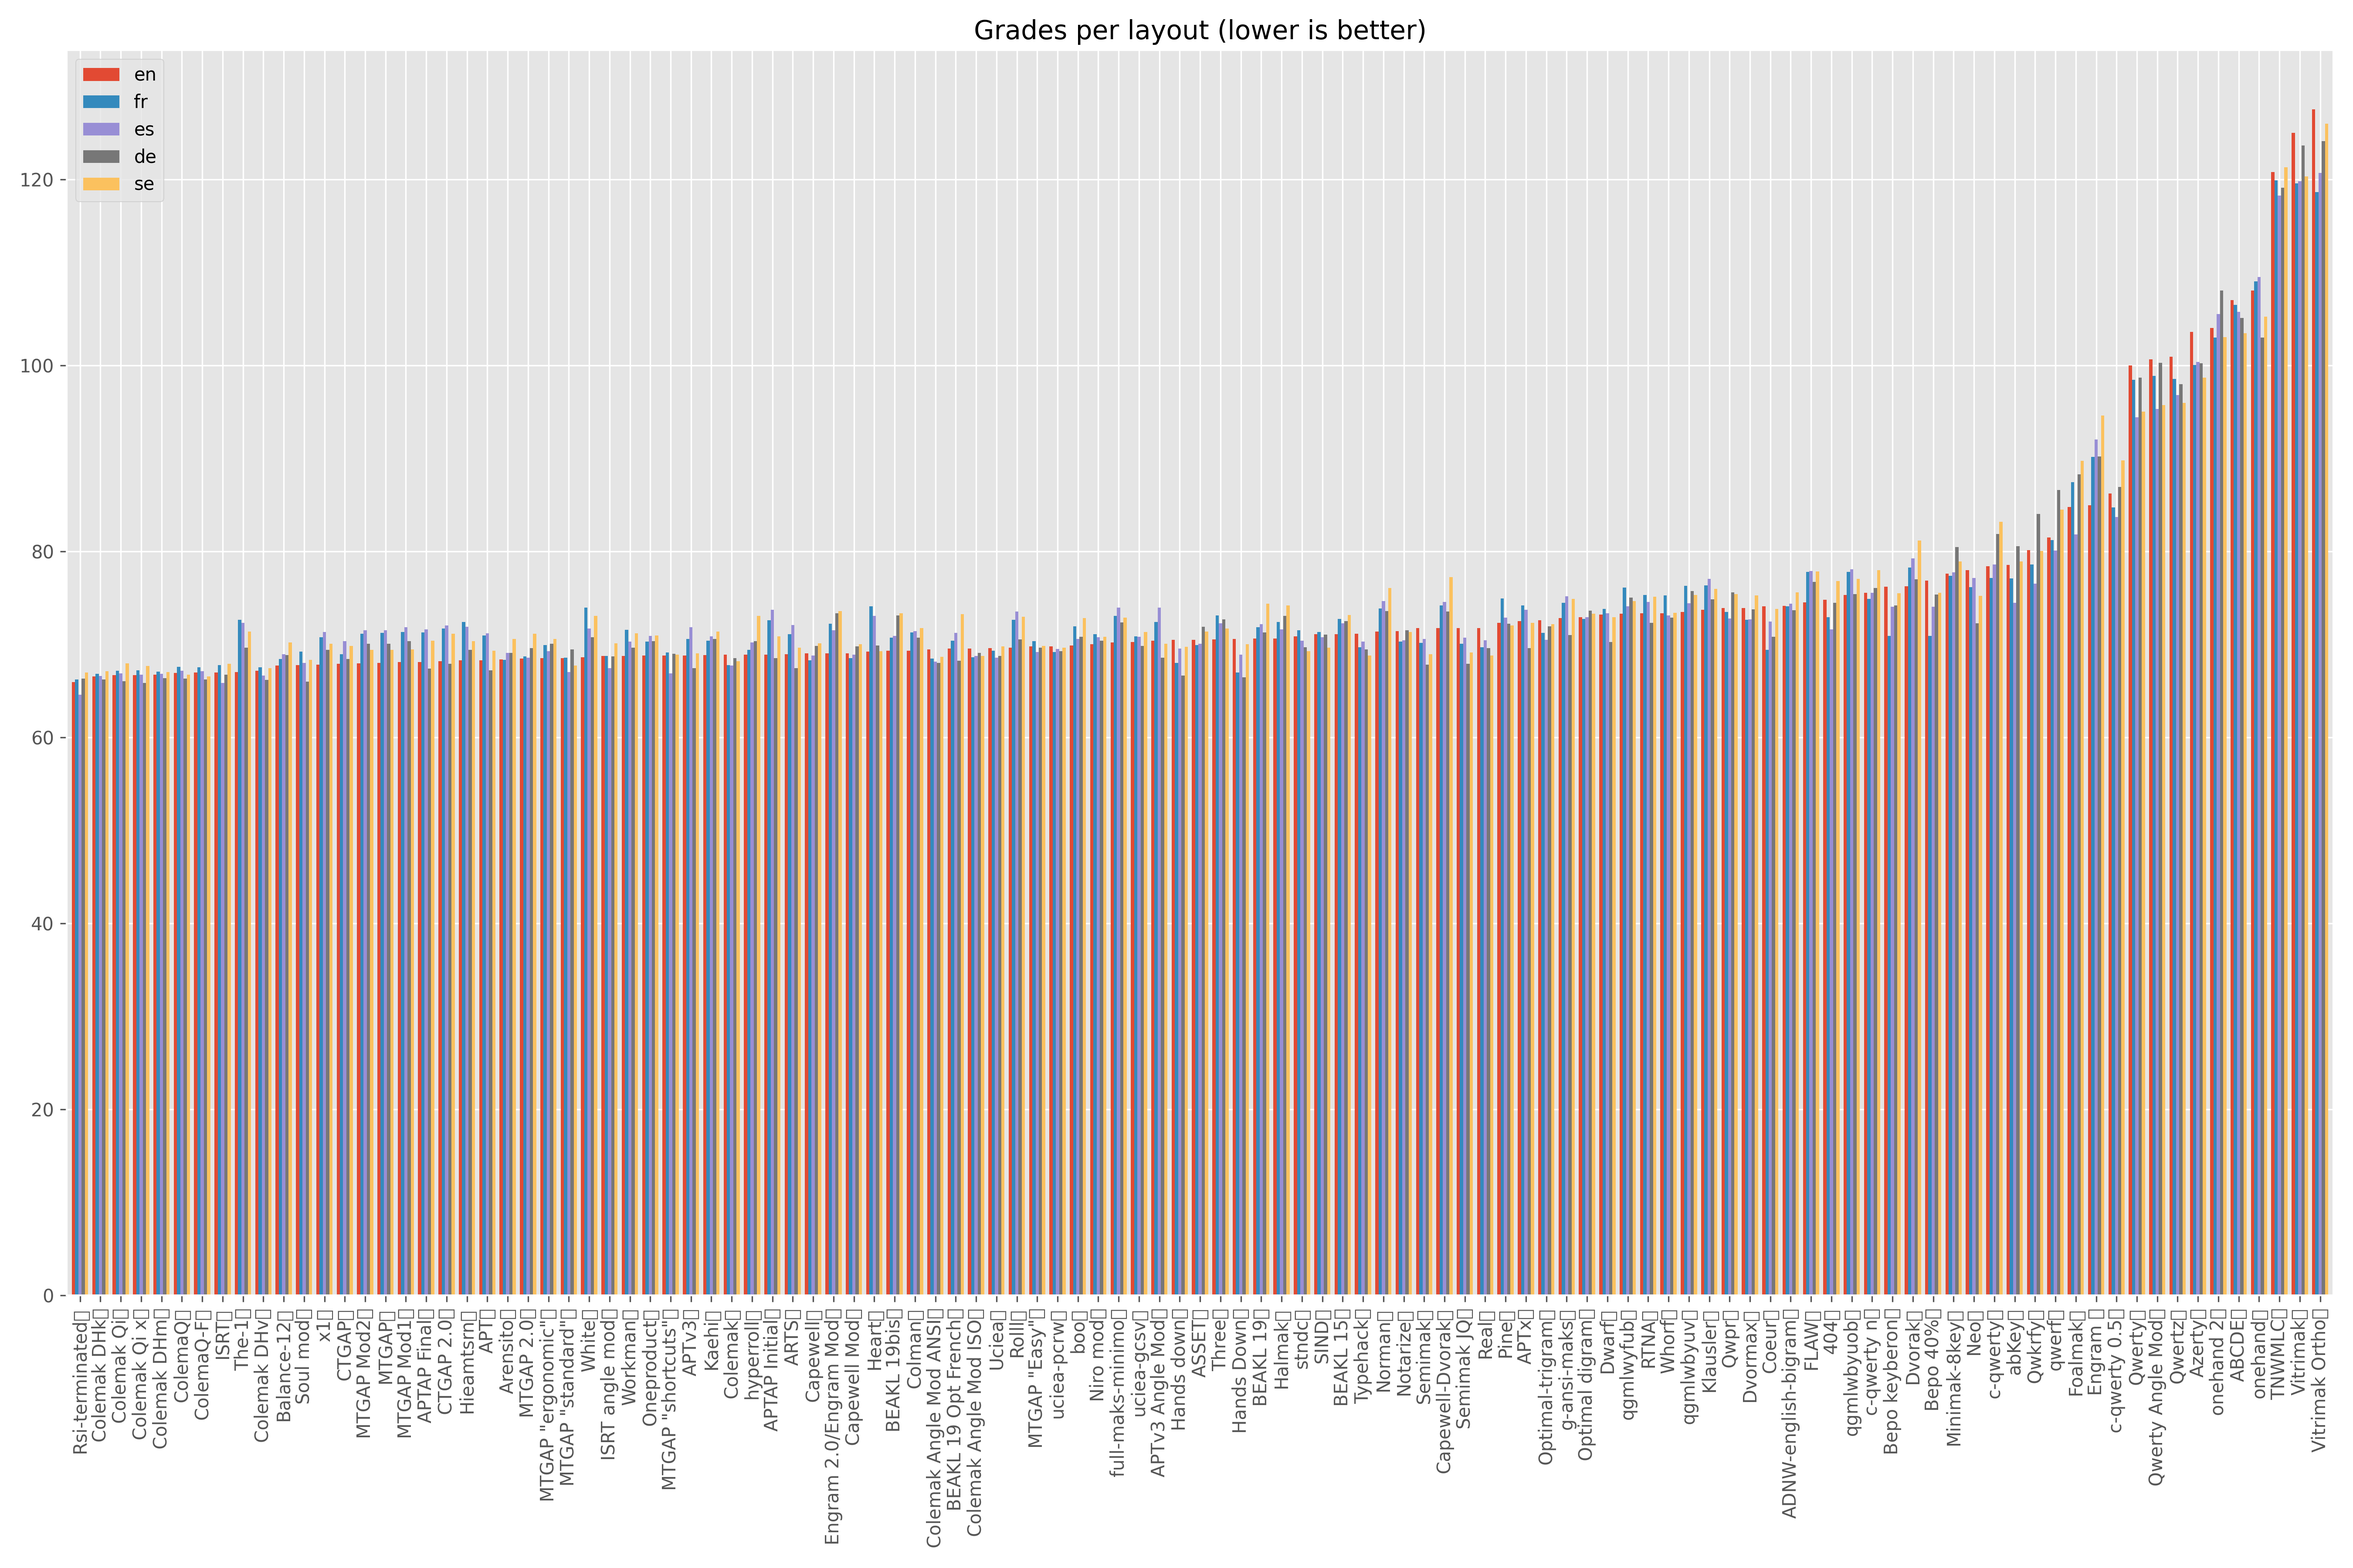
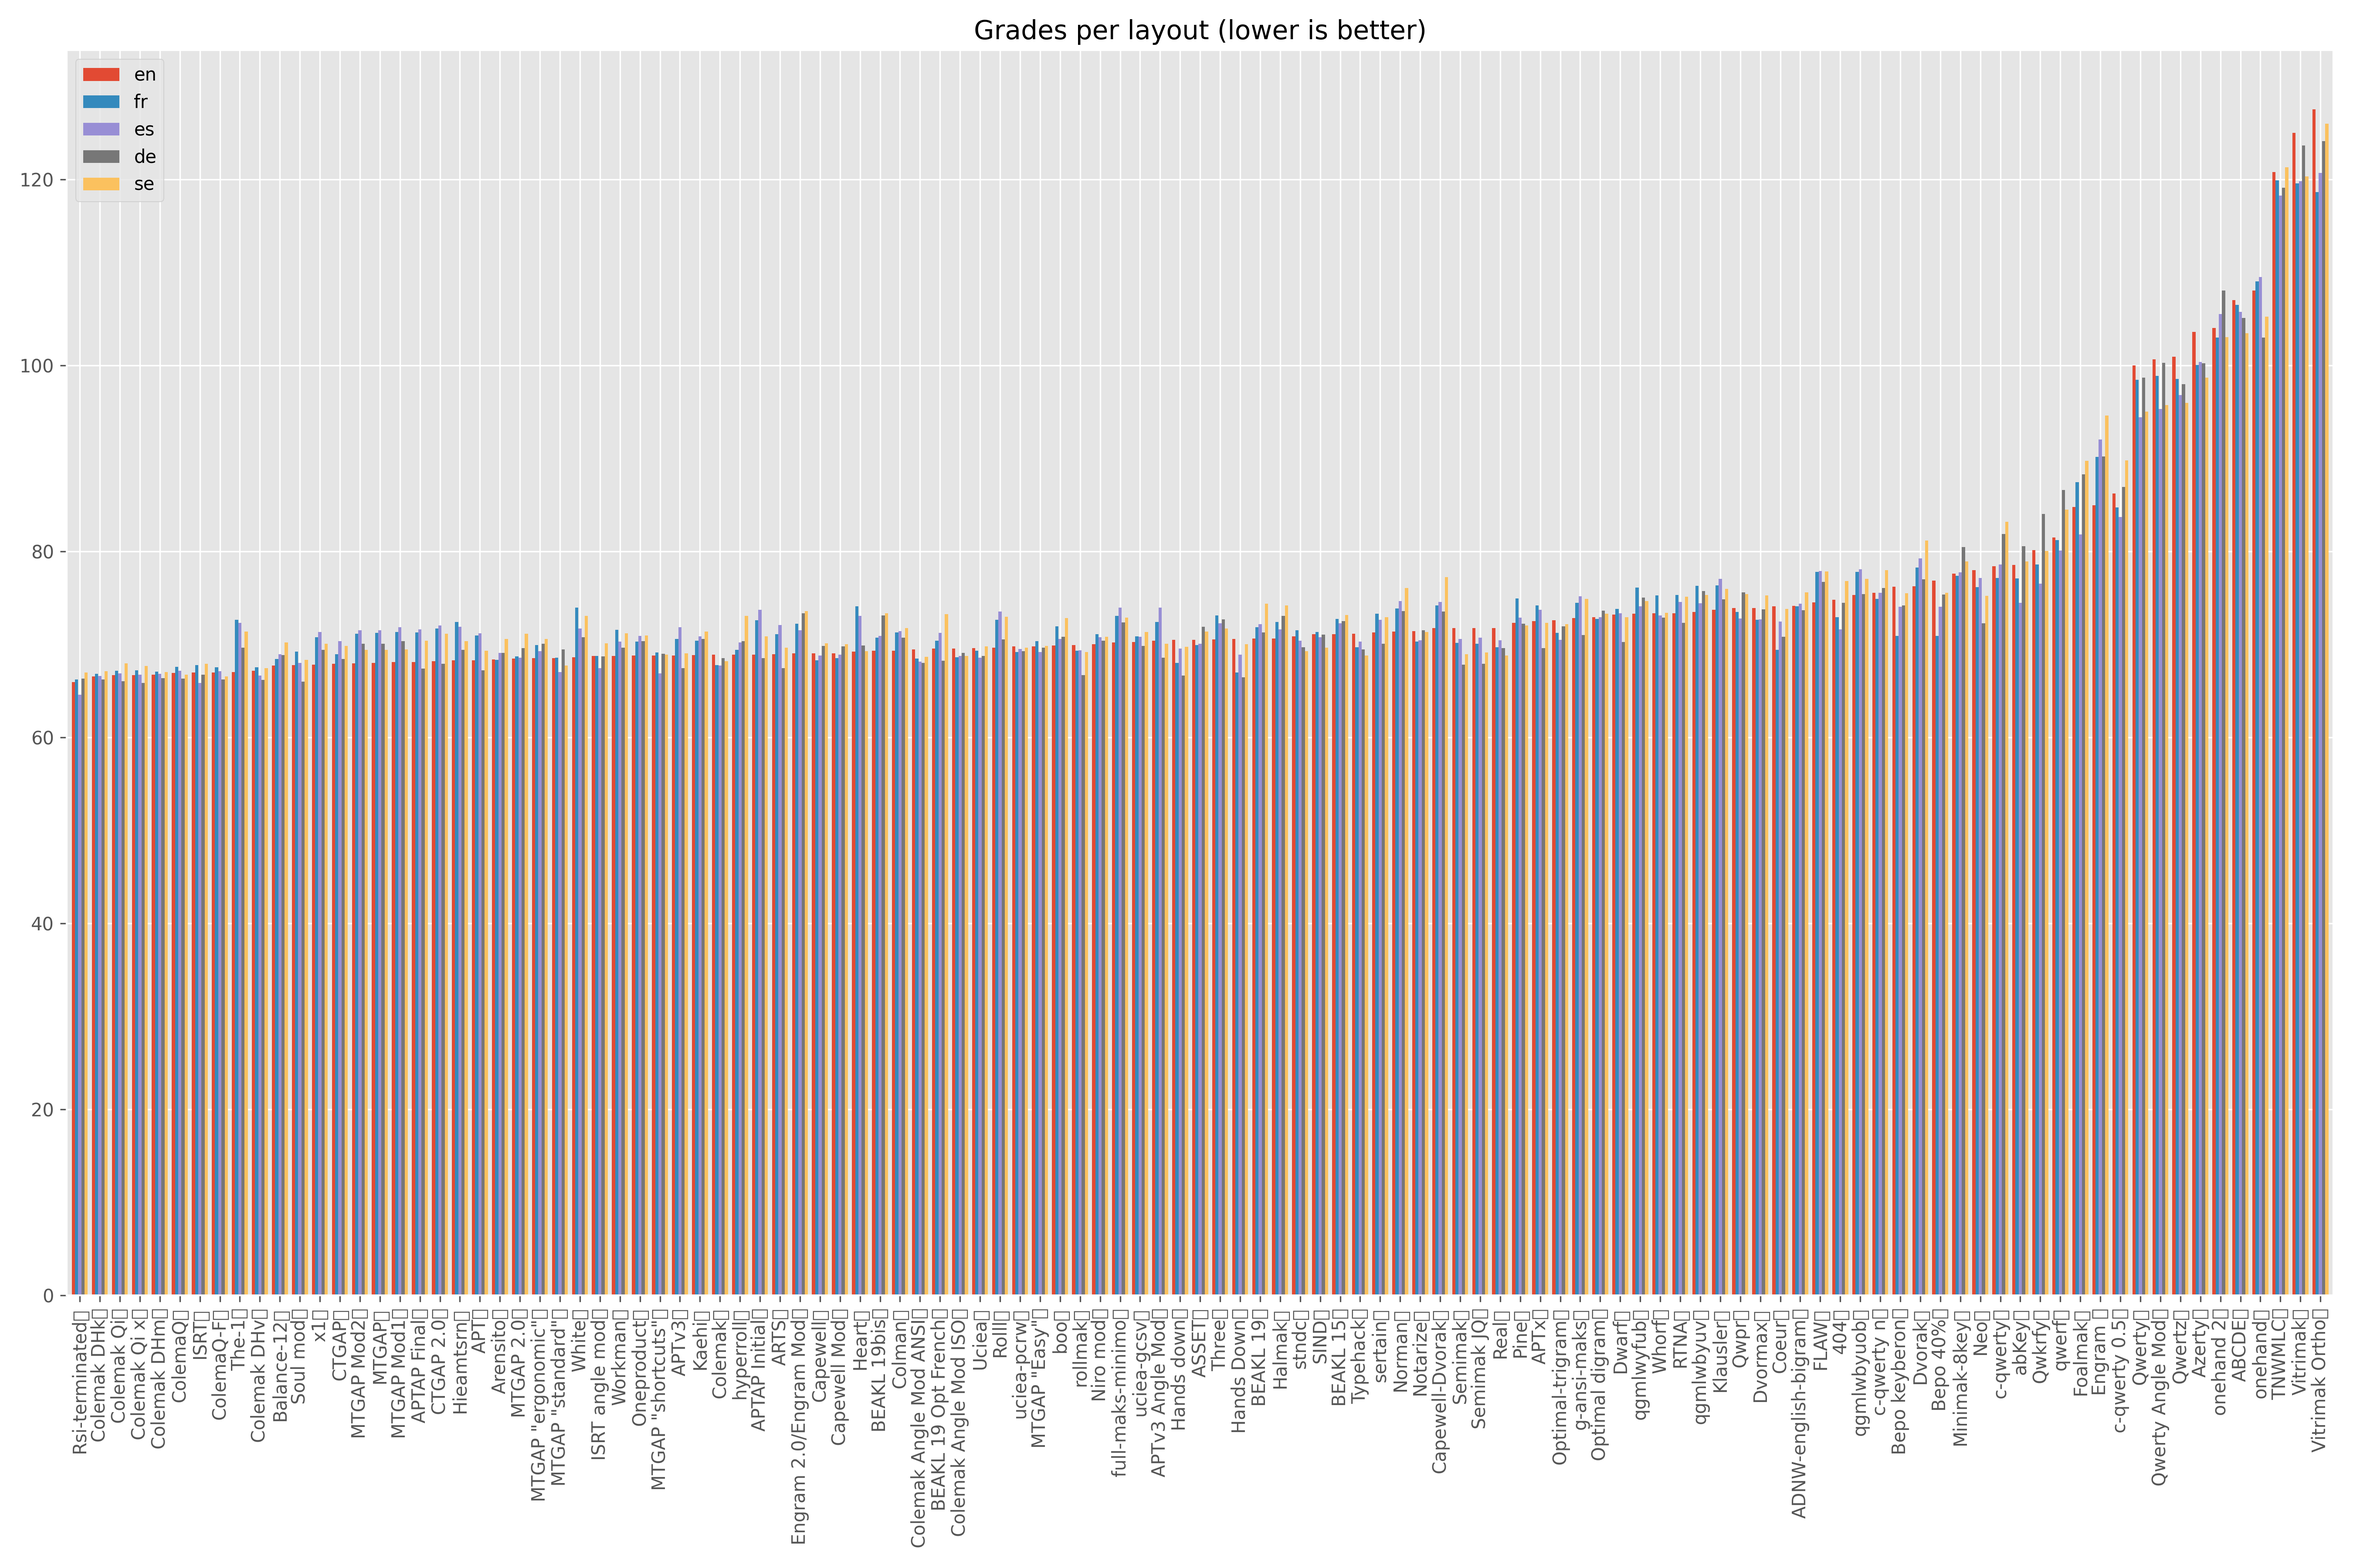
add more layouts

diff --git a/README.md b/README.md
@@ -245,9 +245,9 @@ Here is the complete results list. The layouts can be seen in `config.txt`.
 | Engram 2.0/Engram Mod | 64.47 | 63.17 | 63.78 | 63.806667 | 67.66 | 67.41 | 66.70 | 69.30 | 69.65 | 67.398333 |
 | Heart | 64.60 | 64.05 | 63.86 | 64.170000 | 69.00 | 69.27 | 67.63 | 67.47 | 67.16 | 67.113000 |
 | ColemaQ | 64.66 | 64.18 | 63.58 | 64.140000 | 64.56 | 64.49 | 64.35 | 64.79 | 68.08 | 65.177000 |
-| APTv3 | 64.70 | 63.56 | 64.08 | 64.113333 | 65.99 | 66.58 | 66.74 | 64.85 | 66.03 | 65.603667 |
 | APTAP Initial | 64.70 | 63.70 | 63.13 | 63.843333 | 67.22 | 67.82 | 66.94 | 63.66 | 65.23 | 65.438667 |
 | The-1 | 64.70 | 63.06 | 63.49 | 63.750000 | 69.47 | 69.17 | 69.15 | 67.71 | 70.45 | 68.076000 |
+| APTv3 | 64.70 | 63.56 | 64.08 | 64.113333 | 65.99 | 66.58 | 66.74 | 64.85 | 66.03 | 65.603667 |
 | ColemaQ-F | 64.75 | 64.37 | 63.70 | 64.273333 | 64.53 | 64.59 | 64.16 | 64.36 | 67.62 | 64.994667 |
 | Rsi-terminated | 64.81 | 64.21 | 64.11 | 64.376667 | 64.56 | 64.21 | 63.67 | 66.20 | 67.64 | 65.254333 |
 | MTGAP 2.0 | 64.83 | 64.34 | 63.46 | 64.210000 | 63.83 | 62.94 | 64.18 | 65.15 | 66.95 | 64.775000 |
@@ -264,6 +264,7 @@ Here is the complete results list. The layouts can be seen in `config.txt`.
 | x1 | 65.41 | 64.61 | 64.96 | 64.993333 | 66.33 | 66.34 | 66.45 | 68.20 | 68.09 | 66.813667 |
 | Colemak DHk | 65.51 | 65.07 | 64.68 | 65.086667 | 65.82 | 65.77 | 65.84 | 65.61 | 68.64 | 66.194333 |
 | Workman | 65.62 | 65.28 | 64.82 | 65.240000 | 67.82 | 67.61 | 67.02 | 67.11 | 71.50 | 67.717000 |
+| rollmak | 65.67 | 65.41 | 64.67 | 65.250000 | 64.89 | 65.45 | 64.59 | 64.78 | 67.96 | 65.550000 |
 | Soul mod | 65.69 | 65.31 | 64.84 | 65.280000 | 65.79 | 65.33 | 64.88 | 64.55 | 68.55 | 65.764000 |
 | Capewell Mod | 65.75 | 65.45 | 64.71 | 65.303333 | 65.53 | 64.71 | 65.97 | 67.04 | 67.80 | 66.246667 |
 | MTGAP "standard" | 65.76 | 65.14 | 64.69 | 65.196667 | 65.11 | 64.57 | 64.60 | 66.95 | 66.91 | 65.699333 |
@@ -298,11 +299,12 @@ Here is the complete results list. The layouts can be seen in `config.txt`.
 | Norman | 68.17 | 67.54 | 67.51 | 67.740000 | 70.92 | 69.92 | 71.43 | 70.05 | 72.29 | 70.386000 |
 | Optimal-trigram | 68.44 | 68.13 | 67.59 | 68.053333 | 67.01 | 67.42 | 65.66 | 70.07 | 67.81 | 67.761667 |
 | Typehack | 68.49 | 68.14 | 67.99 | 68.206667 | 67.38 | 67.30 | 68.75 | 68.18 | 66.92 | 67.879333 |
-| Semimak JQ | 68.59 | 68.64 | 67.86 | 68.363333 | 68.55 | 69.22 | 68.33 | 64.81 | 66.89 | 67.455667 |
 | Real | 68.59 | 68.31 | 67.78 | 68.226667 | 67.59 | 66.90 | 67.97 | 66.08 | 66.83 | 67.270333 |
+| Semimak JQ | 68.59 | 68.64 | 67.86 | 68.363333 | 68.55 | 69.22 | 68.33 | 64.81 | 66.89 | 67.455667 |
 | Pine | 68.63 | 68.08 | 67.44 | 68.050000 | 69.63 | 70.24 | 67.42 | 69.27 | 70.64 | 69.063000 |
 | Semimak | 68.66 | 68.66 | 67.93 | 68.416667 | 68.41 | 69.23 | 68.39 | 64.92 | 67.12 | 67.533333 |
 | ASSET | 68.70 | 68.08 | 68.03 | 68.270000 | 66.00 | 64.69 | 66.87 | 70.54 | 71.21 | 68.447000 |
+| sertain | 68.72 | 68.36 | 67.86 | 68.313333 | 70.81 | 70.89 | 69.93 | 68.16 | 70.47 | 69.544667 |
 | Notarize | 69.28 | 68.64 | 68.67 | 68.863333 | 67.46 | 66.06 | 67.86 | 69.40 | 68.11 | 68.198667 |
 | RTNA | 70.00 | 69.92 | 69.78 | 69.900000 | 73.29 | 73.11 | 72.32 | 69.69 | 73.36 | 71.694000 |
 | Capewell-Dvorak | 70.03 | 69.08 | 69.49 | 69.533333 | 74.36 | 73.78 | 74.55 | 71.10 | 76.19 | 73.088667 |
